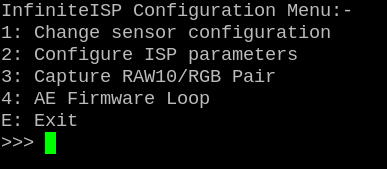
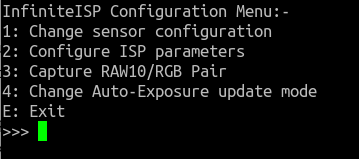
updated efinix README

diff --git a/binaries/efinix_ti180/README.md b/binaries/efinix_ti180/README.md
@@ -1,26 +1,35 @@
-# How to use the Titanium Ti180 J484 Binary Files
+# How to use the Titanium Ti180 J484 Binary File
 
 ## v1.5
+### Pre-requisite
+- Efinity 2023.2 or latest version
+- Efinix Titanium Ti180 J484 Development Kit
+
 ### For IMX219 image sensor module:
 #### (Raspberry Pi Camera Module v2 or other compatible IMX219 image sensor module)
 1. Connect the IMX219 image sensor module to the P1 connector on the Titanium Ti180 J484 Development Kit.
 2. Insert an SD Card (2GB or above) into the Titanium Ti180 board.
 3. Connect the Titanium Ti180 board with a monitor screen using an HDMI cable.
-4. Power up the Titanium Ti180 board and follow the [steps](https://www.efinixinc.com/docs/efinity-pgm-v3.3.pdf) on page 7 to upload binary.
-5. Upload the desired binary file (e.g. Infinite-ISP_v1.5-IMX219.hex) provided in the release on the Titanium Ti180 J484 Development Kit.
-6. Reset the Titanium Ti180 board by turning it OFF and then ON and visualize the Infinite-ISP output on your monitor screen.
-7. Connect the USB cable with the JTAG/USB port on Titanium Ti180 to read the messages over the serial interface (baud rate 115200).
-8. A configuration menu as shown below will appear. Details of the user menu are provided in the [user guide](https://github.com/10x-Engineers/Infinite-ISP_FPGABinaries/blob/main/doc/efinix_ti180/Infinite-ISP%20Configuration%20Menu.md)
+4. Power up the Titanium Ti180 board and follow the steps below.
+    - Open Efinity Programmer
+    ![](../../doc/user_guide/efinity_programmer.png)
+    - Change Programming Mode to `SPI Active using JTAG Bridge (New)`
+    ![](../../doc/user_guide/programming_mode.png)
+    - Update bitstream file path to program `Infinite-ISP_v1.5-IMX219.hex` binaries and press start program button
+    ![](../../doc/user_guide/bitstream_file.png)
+5. Reset the Titanium Ti180 board by turning it OFF and then ON and visualize the Infinite-ISP output on your monitor screen.
+6. Connect the USB cable with the JTAG/USB port on Titanium Ti180 to read the messages over the serial interface (baud rate 115200).
+7. A configuration menu as shown below will appear. Details of the user menu are provided in the [user guide](https://github.com/10x-Engineers/Infinite-ISP_FPGABinaries/blob/main/doc/efinix_ti180/Infinite-ISP%20Configuration%20Menu.md)
 
 <kbd>![ISP Configuration Menu](/doc/efinix_ti180/v1.5/imx219_user_menu.png)</kbd> 
 
-9. If you want to dump RAW10/RGB Pair, do so by going to option 3, and then you can remove the SD card from the Titanium board.
+8. If you want to dump RAW10/RGB Pair, do so by going to option 3, and then you can remove the SD card from the Titanium board.
 
-10. Extract the dumped RAW10/RGB Pair from the SD card and visualize them using the provided [scripts](../../scripts/efinix_ti180).
+9. Extract the dumped RAW10/RGB Pair from the SD card and visualize them using the provided [scripts](../../scripts/efinix_ti180).
 
 ## Scripts for visualization of FPGA outputs in SD Card
 | Name | Description |
 | -----| ----- |
-| sd_reader_raw_ispout_pair.sh | extract the image sensor memory dump data from the SD Card. |
-| efinix_rgb_conversion.py | converts the RGB output memory dump (.bin) data from the FPGA Platform to output image frame (.png) as well as output pixel data frame (.bin) for verification. |
-| efinix_raw_conversion.py | converts the image sensor memory dump (.bin) of RAW Burst Capture from the FPGA Platform to Bayer RAW frames (.raw) containing valid pixel data. |
+| [sd_reader_raw_ispout_pair.sh](../../scripts/efinix_ti180/sd_reader_raw_ispout_pair.sh) | extract the image sensor memory dump data from the SD Card. |
+| [efinix_rgb_conversion.py](../../scripts/efinix_ti180/efinix_rgb_conversion.py) | converts the RGB output memory dump (.bin) data from the FPGA Platform to output image frame (.png) as well as output pixel data frame (.bin) for verification. |
+| [efinix_raw_conversion.py](../../scripts/efinix_ti180/efinix_raw_conversion.py) | converts the image sensor memory dump (.bin) of RAW Burst Capture from the FPGA Platform to Bayer RAW frames (.raw) containing valid pixel data. |

diff --git a/doc/efinix_ti180/Infinite-ISP Configuration Menu.md b/doc/efinix_ti180/Infinite-ISP Configuration Menu.md
@@ -30,6 +30,6 @@ There are several ISP modules that can be configured through the “Configure IS
 Upon selecting option 3 (Capture RAW10/RGB Pair) of the “Infinite-ISP Configuration Menu”. The RAW10/RGB pair capturing will start. Once the wait period is over, it will show you the status of the capture pair. It first writes the RAW10 frame and then the ISPout frame. Once the frame pair get dumped into the SD card, it will bring you back to the “Infinite-ISP Configuration Menu”.
 
 
-## AE Firmware Loop
+## Change Auto-Exposure update mode
 
 Upon selecting option 4 of the “Infinite-ISP Configuration Menu”, you will be asked to change the auto exposure loop. Option 1 for AE firmware loop and option 2 for Hardware AE.
